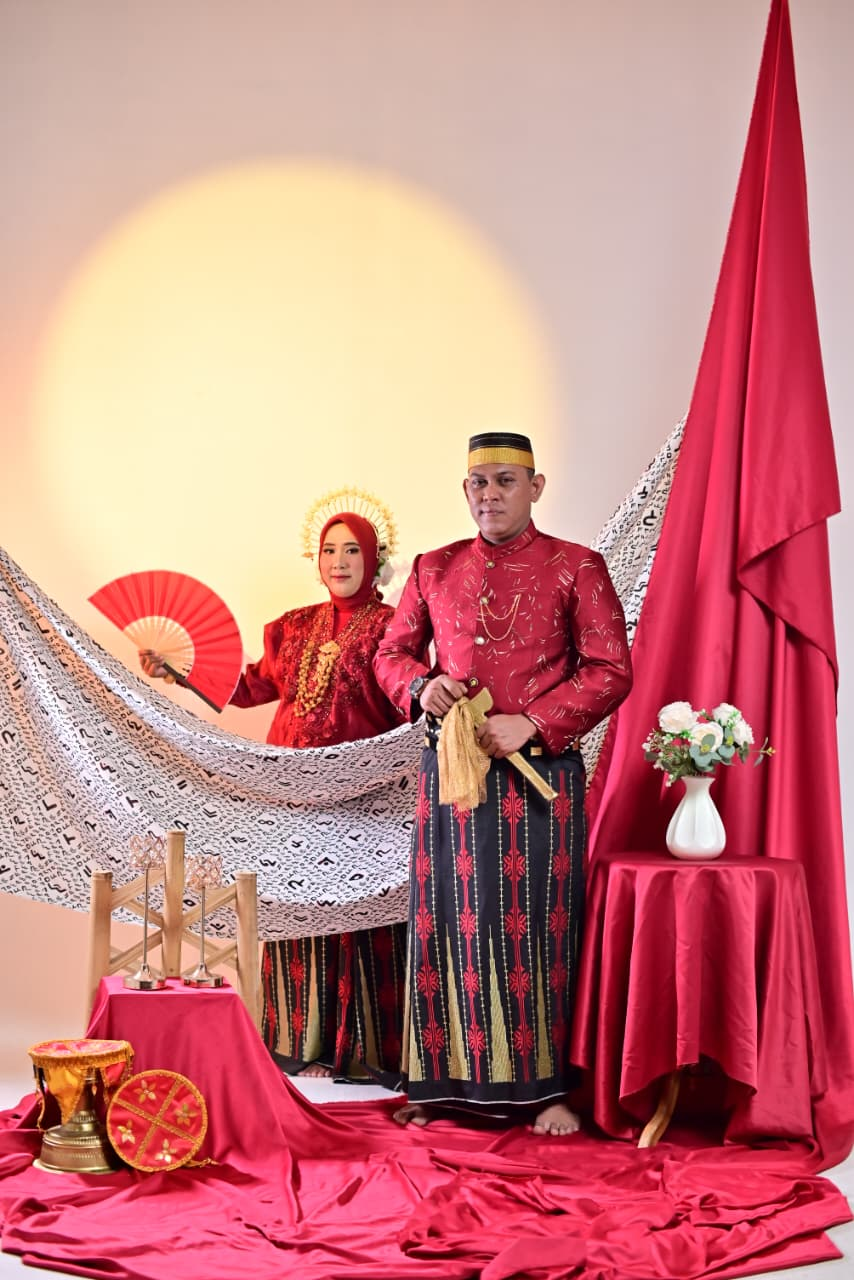
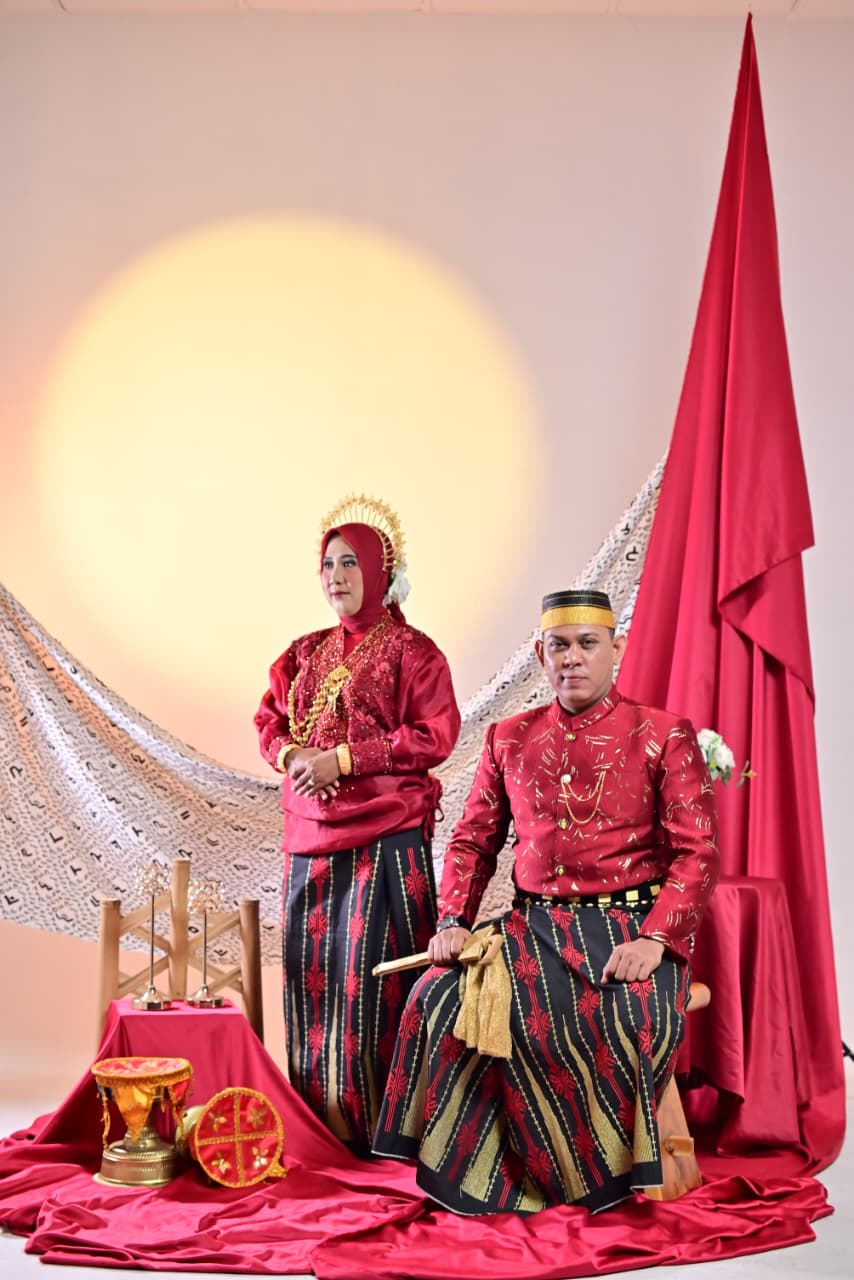
update gambar

diff --git a/index.html b/index.html
@@ -312,12 +312,12 @@
                 </div>
                 <div class="col-lg-4 col-md-6">
                     <div class="single-gallery mb-30">
-                        <div class="gallery-img" style="background-image: url(assets/img/gallery/WhatsApp_Image_1.jpeg);">
+                        <div class="gallery-img" style="background-image: url(assets/img/gallery/WhatsApp_Image_7.jpeg);">
                         </div>
                         <div class="thumb-content-box">
                             <div class="thumb-content">
                                 <h3>image 04</h3>
-                                <a href="assets/img/gallery/WhatsApp_Image_1.jpeg" class="menorie-icon"> <i class="ti-plus"></i></a>
+                                <a href="assets/img/gallery/WhatsApp_Image_7.jpeg" class="menorie-icon"> <i class="ti-plus"></i></a>
                             </div>
                         </div>
                     </div>
